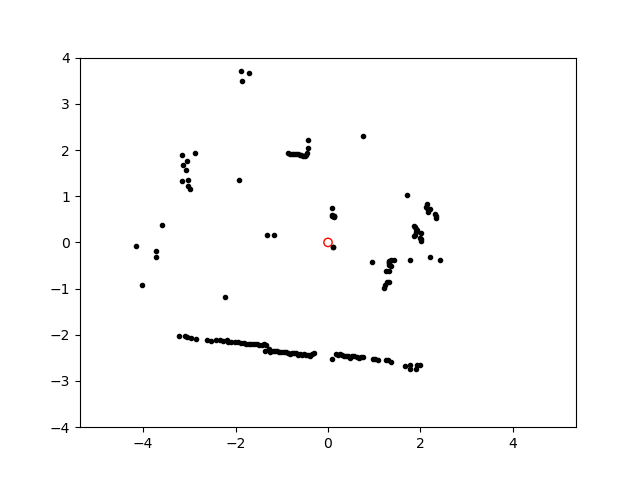
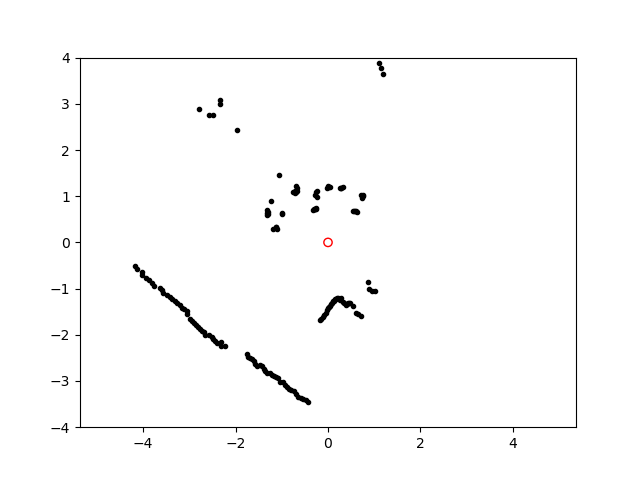
Latest changes

diff --git a/src/group31_pkg/src/image_fusion.py b/src/group31_pkg/src/image_fusion.py
@@ -4,7 +4,7 @@ import numpy as np
 import matplotlib.pyplot as plt
 from rclpy.node import Node
 from message_filters import ApproximateTimeSynchronizer, Subscriber
-from avai_messages.msg import YoloOutput
+from avai_messages.msg import YoloOutput, BoundingBox
 from sensor_msgs.msg import LaserScan
 from sklearn.cluster import DBSCAN
 
@@ -25,10 +25,19 @@ class imageFusion(Node):
         ts = ApproximateTimeSynchronizer([self.cone_subscription, self.lidar_subscription], queue_size=10, slop=0.1)
         ts.registerCallback(self.callback)
 
-        
+        self.bounding_box_confidence_threshold = 0.85
+
+
         self.camera_range = 62 # range of camera in degree (see slides in moodle: 03-Perception Arcitecture): 62.2
         self.lidar_front = 270 # front entry of the lidar sensor (from 0 to 360)
         self.covering = [int(self.lidar_front-(self.camera_range/2)), int(self.lidar_front+(self.camera_range/2))] # array containing the min and max positions in the lidar map that the camera perceives
+        self.buffer = [-0, 0]
+        self.cover = [self.covering[0]+self.buffer[0], self.covering[1]+self.buffer[1]]
+        self.img_size_x = 640
+        self.bin_size = self.img_size_x / self.camera_range
+        self.bin_borders = [self.bin_size*i for i in range(self.camera_range)]
+        
+        self.bins = []
 
         self.X, self.Y = [], []
 
@@ -40,6 +49,69 @@ class imageFusion(Node):
         # cluster parameters
         self.eps = 0.2
         self.min_samples = 2
+
+
+    def cut_lidar_data(self):
+        # for i in range(len(self.ranges)):
+            # if self.cover[0] > i or i > self.cover[1]:
+                # self.ranges[i] = 0
+        self.ranges = self.ranges[self.cover[0]:self.cover[1]+1]
+
+    """
+    def fuse(self):
+        for box in self.bounding_boxes:
+            if(box.confidence < self.bounding_box_confidence_threshold):
+                continue
+
+            # find the bins
+            bin_idx_left = int(np.floor(box.min_x / self.bin_size))
+            bin_idx_right = int(np.floor(box.max_x / self.bin_size))
+
+            bin = [-1 for _ in range(self.camera_range)]
+            for bin_idx in range(bin_idx_left, bin_idx_right + 1):
+                if(bin_idx >= 62):
+                    continue
+                bin[bin_idx] = box.cone
+            
+            self.bins.append(bin)
+        
+        bins_copy = [[] for _ in range(self.camera_range)]
+        for bin in self.bins:
+            for i, entry in enumerate(bin):
+                if entry == -1:
+                    continue
+                self.bins_copy[i].append(entry)
+        self.bins = bins_copy
+
+        print(self.bins)
+        exit()
+    """
+
+    def fuse(self): #TODO: add missing bin an end
+        bins = [[] for _ in range(self.camera_range)]
+        
+        for box in self.bounding_boxes:
+            if box.confidence >= self.bounding_box_confidence_threshold:
+                bin_idx_left = int(np.floor(box.min_x / self.bin_size))
+                bin_idx_right = int(np.floor(box.max_x / self.bin_size))
+                
+                for bin_idx in range(bin_idx_left, min(bin_idx_right + 1, 62)):
+                    bins[bin_idx].append(box.cone)
+
+        self.bins = [bin_entries if bin_entries else [-1] * len(bin_entries) for bin_entries in bins]
+
+    
+    def update_coordinates(self):
+        self.X, self.Y = [], []
+
+        for angle, (range_val, bin_val) in enumerate(zip(self.ranges, self.bins), start=self.cover[0]):
+            print(angle, range_val, bin_val)
+
+
+
+        exit()
+
+
 
 
     def convert_to_polar_with_identifiers(self, clusters):
@@ -155,14 +227,19 @@ class imageFusion(Node):
 
         self.bounding_boxes = msg_cones.bounding_boxes
         self.ranges = msg_lidar.ranges
+
+        self.cut_lidar_data()
+        self.fuse()
+        self.update_coordinates()
+        return
+
         self.get_coordinates()
 
         cluster = self.cluster(self.X, self.Y)
         ranges, identifier = self.convert_to_polar_with_identifiers(cluster)
-        for r, i in zip(ranges, identifier):
-            print(r, i)
-        
-        #print(self.ranges[self.covering[0]:self.covering[1]])
+        self.cut_lidar_data(ranges, identifier)
+        #for r, i in zip(ranges, identifier):
+        #    print(r, i)
 
         self.update_map()
         self.save_map()
